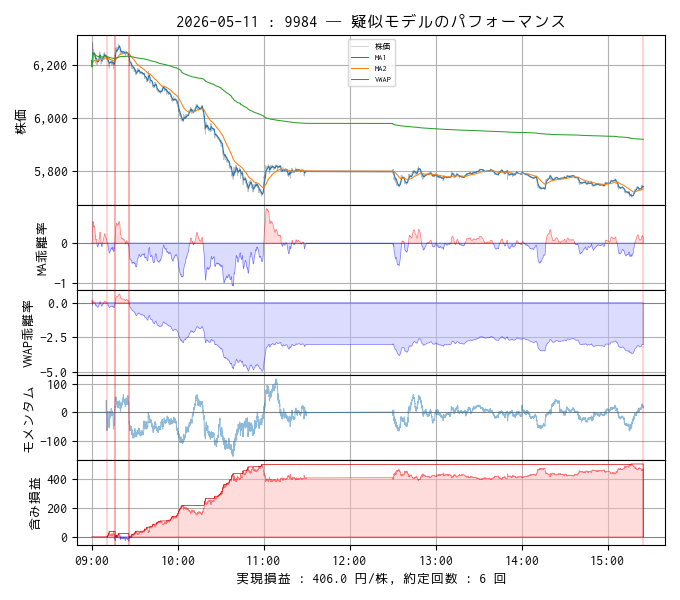
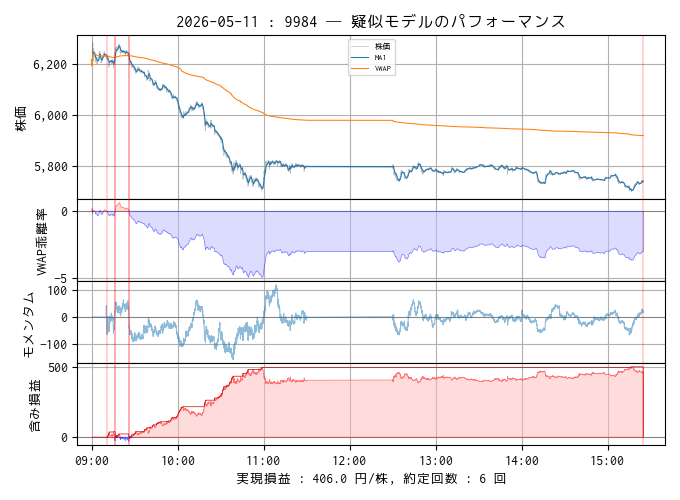
update

Changed region(s): [[0.0, 0.0, 0.9882, 0.99]]

diff --git a/tools/gnat.py b/tools/gnat.py
@@ -66,9 +66,9 @@ class Gnat:
 
         plt.rcParams["font.family"] = font_prop.get_name()
 
-        fig = plt.figure(figsize=(6.8, 6))
+        fig = plt.figure(figsize=(6.8, 5))
         ax = dict()
-        n = 5
+        n = 4
         gs = fig.add_gridspec(
             n, 1,
             wspace=0.0, hspace=0.0,
@@ -87,8 +87,8 @@ class Gnat:
         plot_main(ax[i], df, title)
 
         # MA乖離率
-        i += 1
-        plot_diff_ma(ax[i], df)
+        #i += 1
+        #plot_diff_ma(ax[i], df)
 
         # VWAP乖離率
         i += 1

diff --git a/funcs/plot.py b/funcs/plot.py
@@ -66,7 +66,7 @@ def plot_main(ax, df, title):
     ax.set_title(title)
     ax.plot(df["price"], color="black", alpha=0.25, linewidth=0.5, zorder=20, label="株価")
     ax.plot(df["ma1"], linewidth=0.75, zorder=30, label="MA1")
-    ax.plot(df["ma2"], linewidth=0.75, zorder=30, label="MA2")
+    # ax.plot(df["ma2"], linewidth=0.75, zorder=30, label="MA2")
     ax.plot(df["vwap"], linewidth=0.75, zorder=30, label="VWAP")
     ax.set_ylabel("株価")
     ax.xaxis.set_major_formatter(mdates.DateFormatter("%H:%M"))